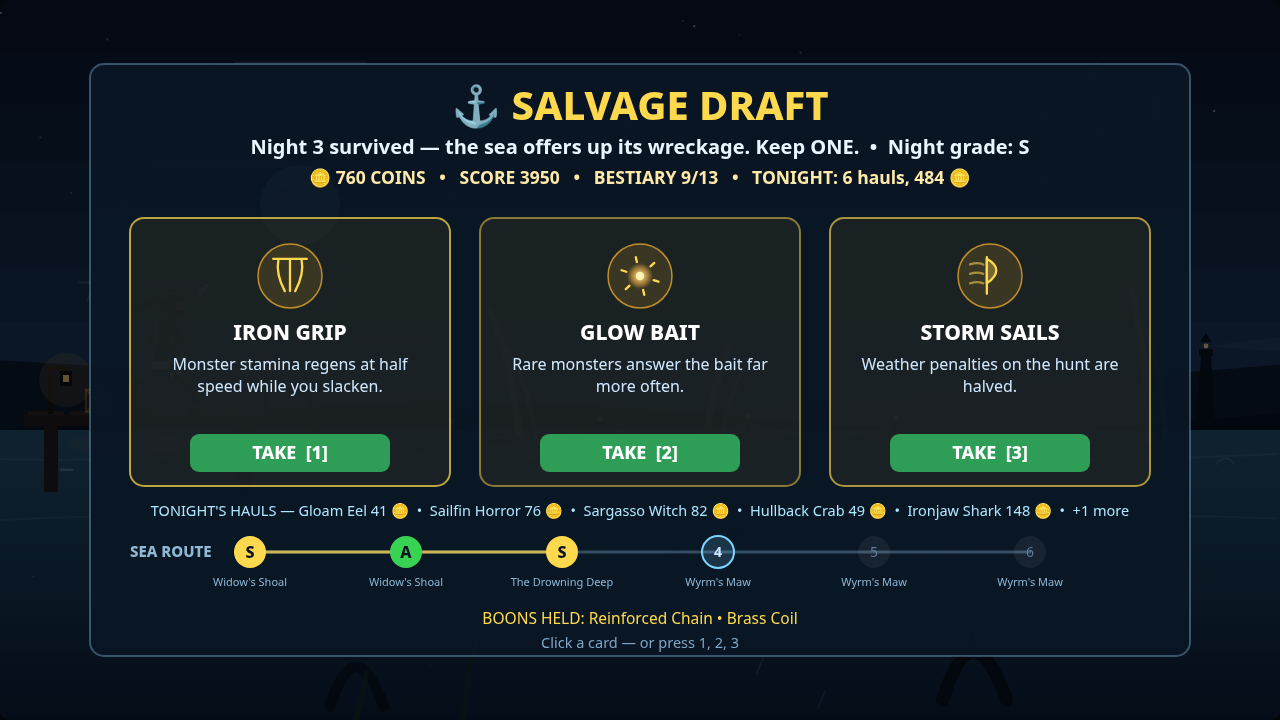
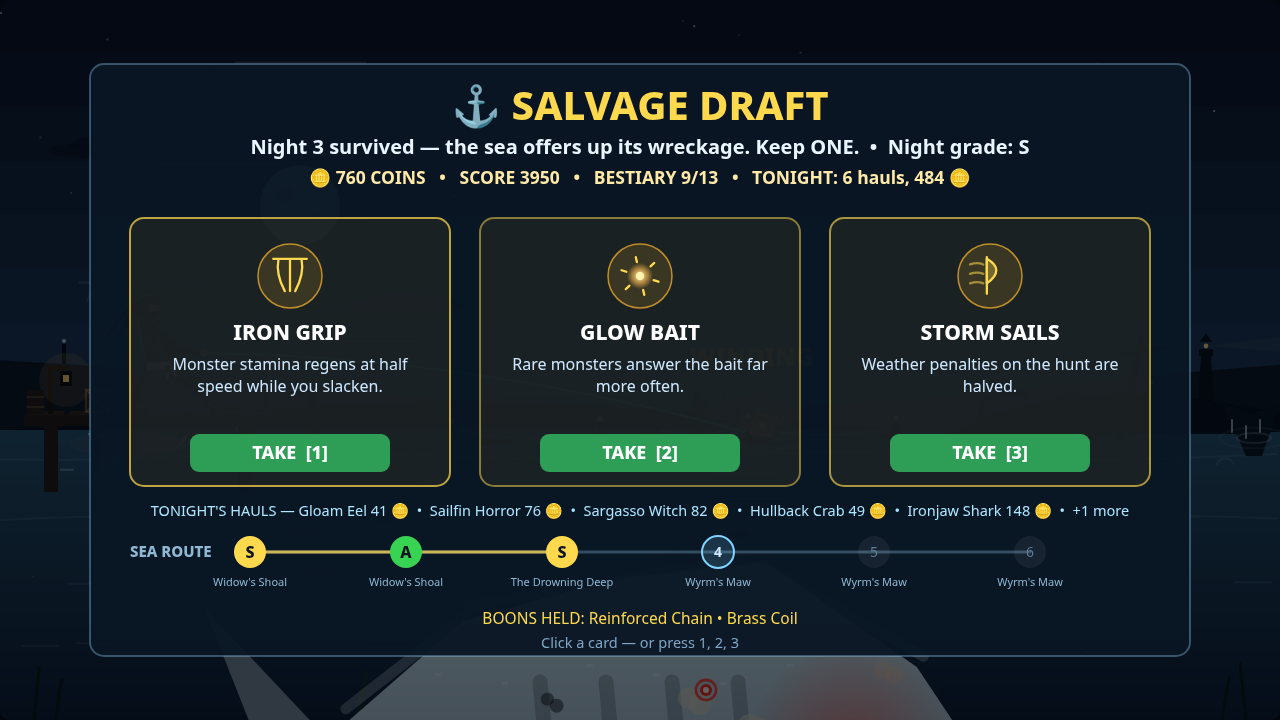
WYRMWAKE: living stage + second-sea draft shot

Changed region(s): [[0.1562, 0.8861, 0.75, 1.0], [0.9375, 0.5806, 1.0, 0.6417]]

diff --git a/game/src/shots.js b/game/src/shots.js
@@ -58,11 +58,23 @@ export function stageShot(name, view, burst) {
   }
   if (name === 'draft') {
     r.screen = 'draft';
-    r.night = 4; r.weatherIdx = 2; r.sea = 2; r.seasOpen = [true, true, true];
+    r.night = 4; r.weatherIdx = 2; r.sea = 1; r.seasOpen = [true, true, true];
     r.coins = 760; r.score = 3950; r.throws = 26; r.hauled = 22;
     r.boons = ['cable', 'winch'];
     r.nightGrades = ['S', 'A', 'S'];
-    r.nightSeas = [0, 0, 1];
+    r.nightSeas = [0, 0, 1, 2, 2, 2];
+    // behind the panel the night is still on: a Gale over the
+    // Drowning Deep, the Corpse Whale mid-fight on the chain, her
+    // weak point open — the backdrop (vendor/scenery.js) stages her
+    // flank and fluke in the water the panel cannot cover
+    r.phase = 'fight';
+    r.fight = {
+      mi: 3, dist: 55, tension: 42, t: 5.2, snapT: 0, surgePhase: 0, stamina: 58,
+      wpNext: 5, wpT: 0.9, wpFake: false, wpDx: 0.2, wpDy: 0.1,
+      evIn: 8, evCount: 0, event: null,
+      surgeT: 0, vitalAcc: 0, vitalFlash: 0, spikeT: 0, inkT: 0,
+      dashT: 0, dashCd: 0, counterT: 0, vanishFlash: 0,
+    };
     r.tonightHauls = [];
     r.lastNightHauls = [
       { mi: 0, coins: 41 }, { mi: 2, coins: 76 },
